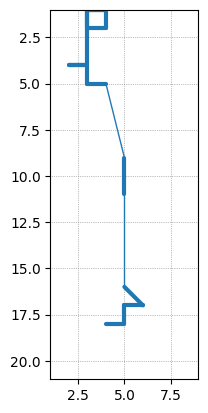
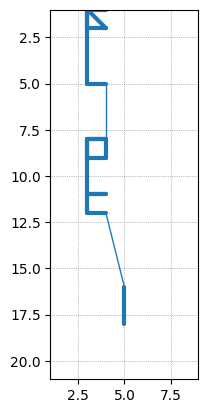
removed repetition error due to modals

diff --git a/txt2gest_fun/drawSentenceGesture.py b/txt2gest_fun/drawSentenceGesture.py
@@ -11,22 +11,22 @@ def drawSentenceGesture(lemmas,phrases,meta_datas,POS):
     return gestures
 
 
-def drawgestureframe(lemmas,phrases,meta_datas,POS,gestures):
+def drawgestureframe(lemmas,phrases,meta_datas,POS,gestures,skips=0):
     gesture_X_positions=[]
     gesture_Y_positions=[]
     gesture_dir_sequence=[]
     gesture_pressure_variation=[]
- 
     constituents=[]
     i=0
-    skips=0
     while i < len(lemmas)-skips:
         print("---")
         print(i)
+        print(lemmas)
         if i>2:
-            print('crossing 3 gestemes limit')
             gestures.append({'X_positions':gesture_X_positions,'Y_positions':gesture_Y_positions,'dir_sequence':gesture_dir_sequence,'pressure_variation':gesture_pressure_variation,'angular_vel':0,'data_density':0})
-            drawgestureframe(lemmas[3:],phrases[3:],meta_datas[3:],POS[3:],gestures)
+            # print("gestures before recursive call",gestures)
+            drawgestureframe(lemmas[3:],phrases[3:],meta_datas[3:],POS[3:],gestures,skips)
+            # print("gestures before recursive call",gestures)
             return
 
         print(POS[i])
@@ -90,6 +90,7 @@ def drawgestureframe(lemmas,phrases,meta_datas,POS,gestures):
             if(lemmas[i].lower()=='will'):
                 for j in range(i+1,len(lemmas)):
                     meta_datas[j]={**meta_datas[j],'Tense':['Fut']}
+                print(lemmas)
             
             #fill empty space of modal
             for k in range(i+1,len(lemmas)):
